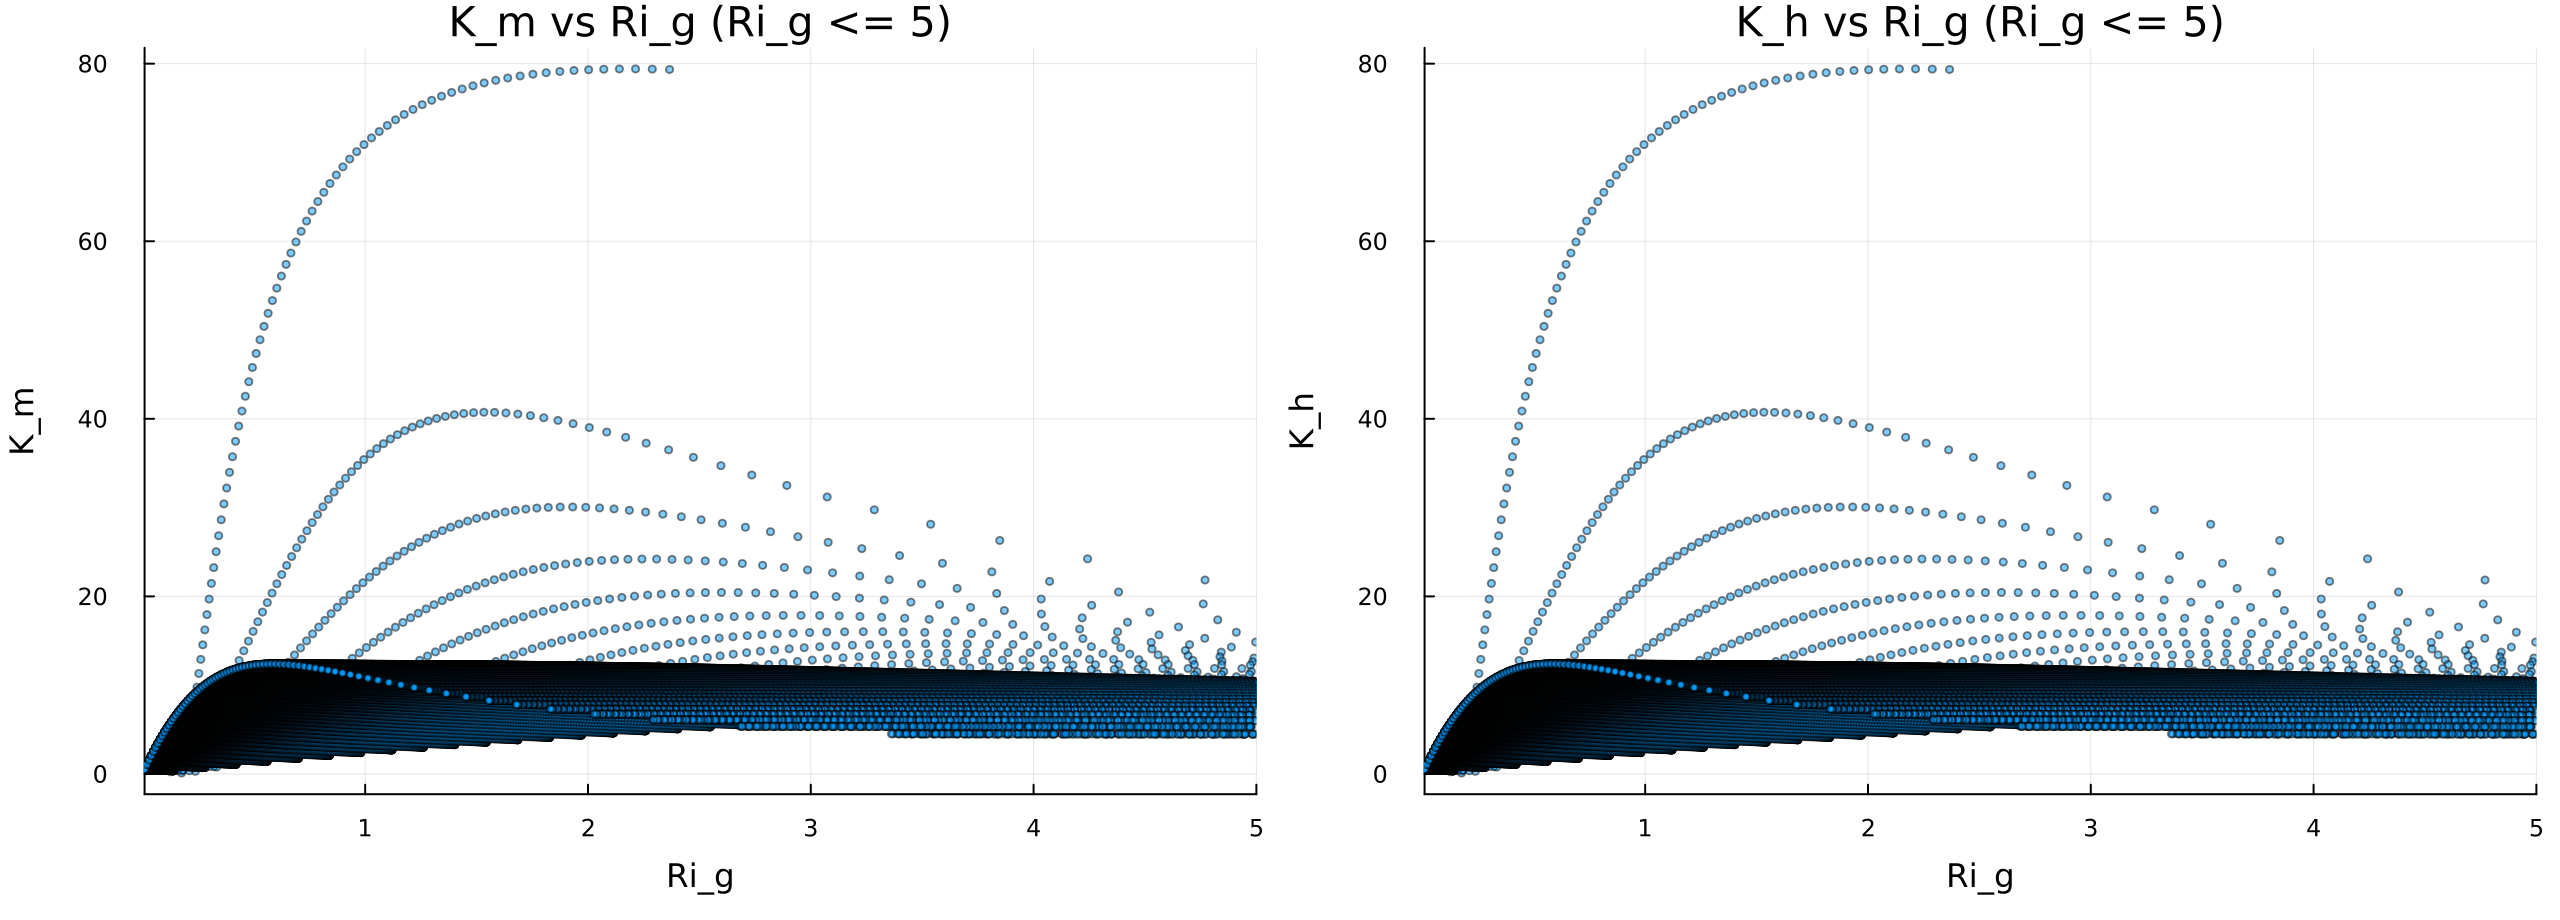
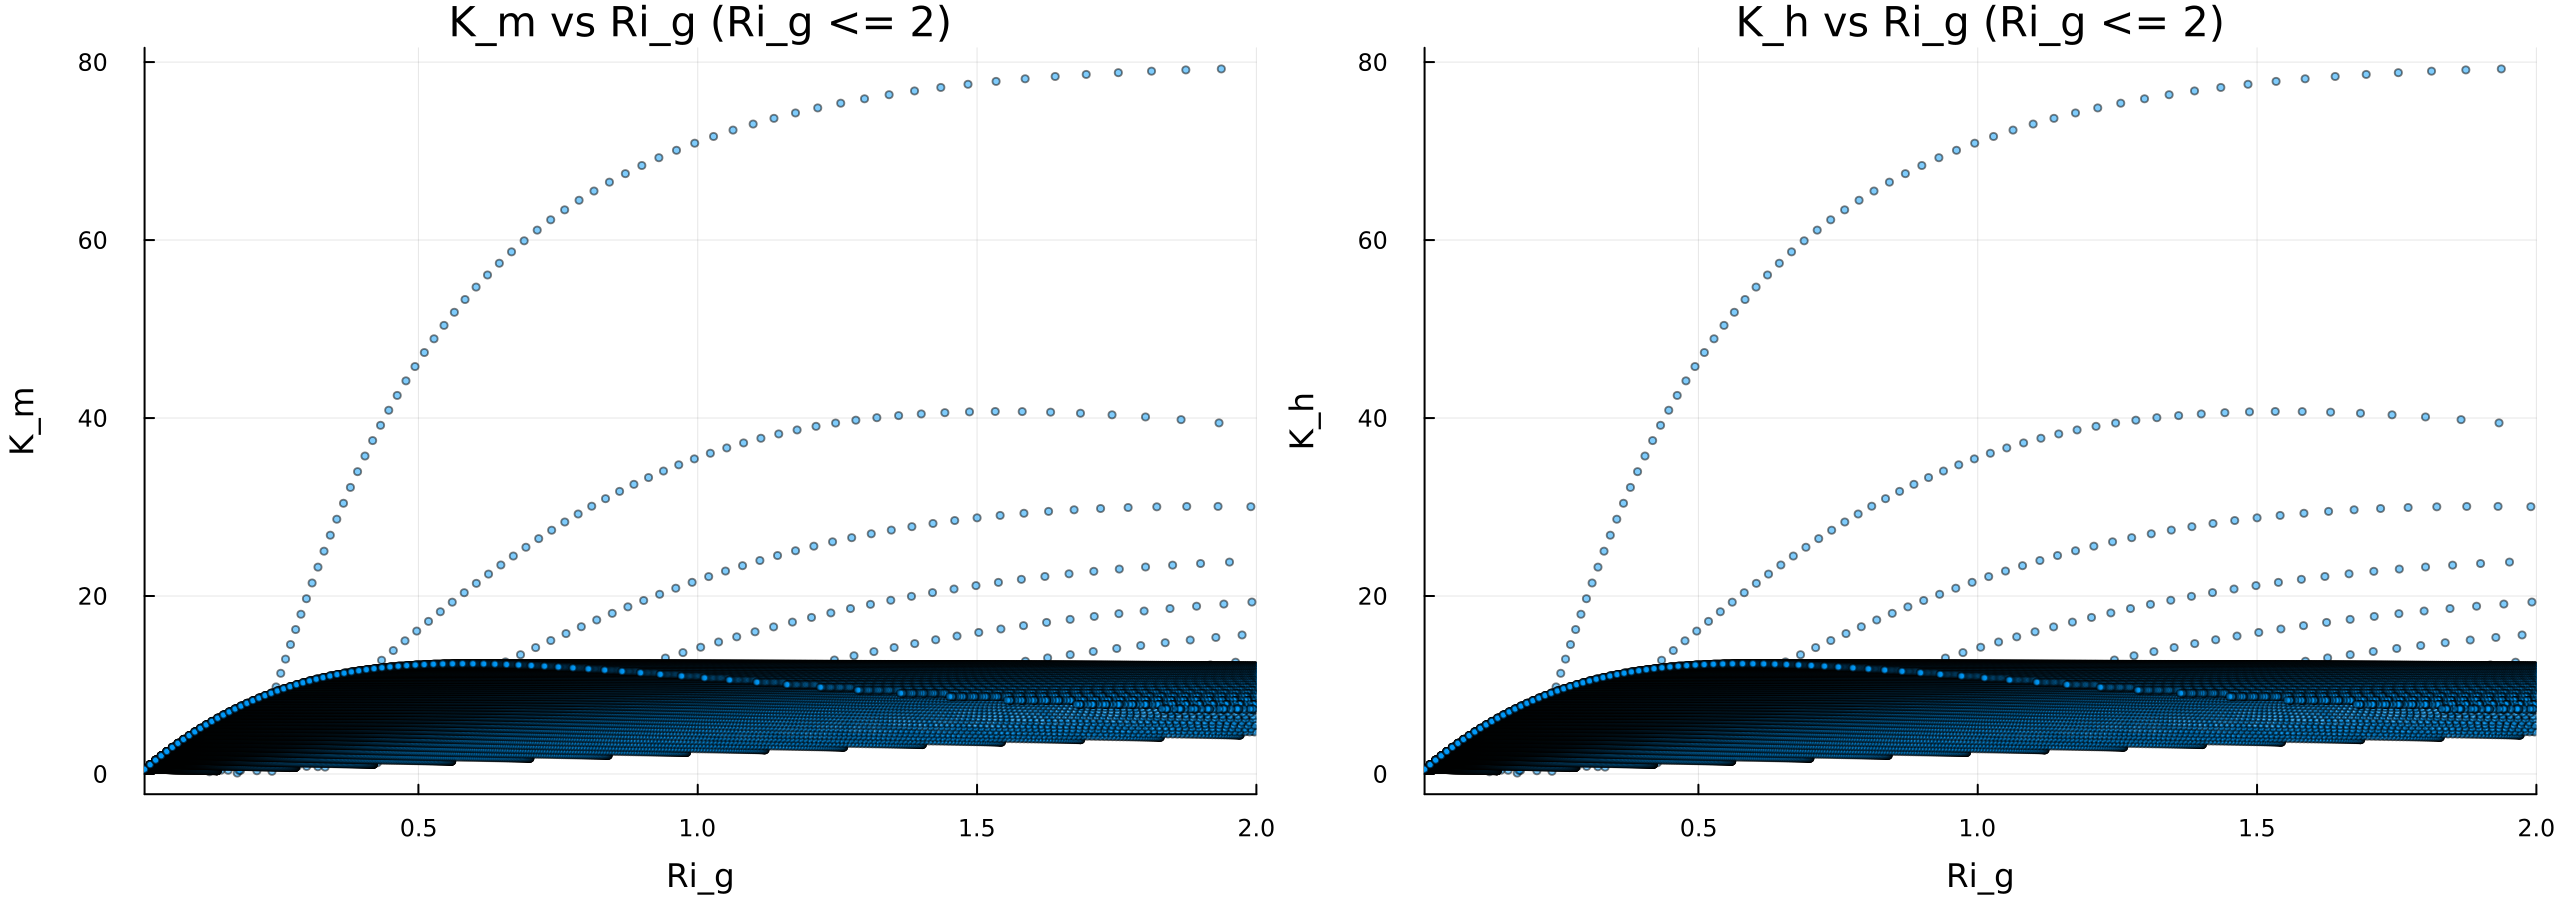
made clean yet again

diff --git a/results/gabls1/gabls1_80x2m_9h_report.tex b/results/gabls1/gabls1_80x2m_9h_report.tex
@@ -11,7 +11,7 @@ and returned \texttt{ Success }.
   \item Case identifier: \texttt{ gabls1 }
   \item Output directory: \texttt{ results/gabls1 }
   \item Number of saved time samples: 1081
-  \item Number of profile snapshots: 4
+  \item Number of profile snapshots: 19
   \item Solver accepted/rejected steps: 416 / 1
   \item RHS evaluations: 104426
   \item Solver tolerances: $\mathrm{abstol}=1.000 \times 10^{-8}$, $\mathrm{reltol}=1.000 \times 10^{-6}$

diff --git a/results/gabls1/scm_case_report.tex b/results/gabls1/scm_case_report.tex
@@ -11,7 +11,7 @@ and returned \texttt{ Success }.
   \item Case identifier: \texttt{ gabls1 }
   \item Output directory: \texttt{ results/gabls1 }
   \item Number of saved time samples: 1081
-  \item Number of profile snapshots: 4
+  \item Number of profile snapshots: 19
   \item Solver accepted/rejected steps: 416 / 1
   \item RHS evaluations: 104426
   \item Solver tolerances: $\mathrm{abstol}=1.000 \times 10^{-8}$, $\mathrm{reltol}=1.000 \times 10^{-6}$

diff --git a/notes/16Jul2026.md b/notes/16Jul2026.md
@@ -443,3 +443,76 @@ J = \begin{pmatrix}
 is defined continuously over the entire physical and non-physical state space. This eliminates the classic "step-rejection loop" phenomenon where non-differentiable boundaries trigger Newton iteration failures, allowing the adaptive time-stepper to confidently increase step sizes ($\Delta t \gg \varepsilon$) once the fast subsystem has relaxed to the slow manifold $\mathcal{M}_\varepsilon$.
 
 ```
+
+---
+
+That Makefile is beautiful—highly modular, fully ready for parallel execution, and perfectly set up to process the distinct physical regimes of **CASES99**, **FLOSS**, and **SHEBA**.
+
+These three datasets represent a classic progression in Stable Boundary Layer (SBL) meteorology, spanning from typical continental grassland to ultra-smooth Arctic sea ice. Because Geometric Singular Perturbation Theory (GSPT) relies on scale separation (fast/slow manifolds), the physical differences in surface roughness and radiative forcing between these sites will fundamentally shift your SBL phase space and bifurcation thresholds.
+
+---
+
+### Physical Landscape Comparison
+
+Here is how these three observational sites map physically and how they impact the GSPT framework's fast and slow variables:
+
+| Dataset | Terrain & Surface | Aerodynamic Roughness ($z_{0m}$) | Thermal Roughness ($z_{0h}$) | Dominant Physics / GSPT Impact |
+| --- | --- | --- | --- | --- |
+| **CASES99** | Flat Kansas grassland | $\approx 10^{-2} \text{ m}$ to $3 \times 10^{-2} \text{ m}$ | $\approx 10^{-3} \text{ m}$ | Standard reference. Strong diurnal cycles, moderate shear-driven turbulence, well-defined weakly to strongly stable transitions. |
+| **FLOSS** | Smooth snowpack (Rocky Flats, CO) | $\approx 10^{-3} \text{ m}$ | $\approx 10^{-4} \text{ m}$ | Low surface heat capacity of snow yields rapid radiative cooling. Reduced $z_{0m}$ narrows the range of shear-generated TKE, making the fast manifold highly sensitive to wind speed changes. |
+| **SHEBA** | Arctic pack ice / snow | $\approx 10^{-4} \text{ m}$ to $10^{-3} \text{ m}$ | $\approx 10^{-5} \text{ m}$ to $10^{-4} \text{ m}$ | Extreme high-latitude stable states. Very low surface drag suppresses turbulent mixing, resulting in an exceptionally thin SBL where Coriolis effects and "upside-down" SBL structures easily warp the slow manifold. |
+
+---
+
+### How Roughness Reshapes the GSPT Manifold
+
+In your GSPT formulation, surface drag directly drives the production of turbulent kinetic energy (TKE) via friction velocity ($u_*$).
+
+* **At CASES99 (Rougher):** The higher drag coefficient keeps the fast-TKE engine ($eq:fast\_tke$) active at lower wind speeds. The collapse of turbulence occurs only under very low winds or extreme cooling.
+* **At SHEBA (Smoother):** The extremely small $z_{0m}$ means $u_*$ is suppressed. The boundary layer struggles to generate shear-driven turbulence. Consequently, the **bifurcation boundary** (where the SBL collapses into a decoupled, laminar-like state) shifts toward much higher wind speeds.
+
+Running bifurcation sweeps (`sweep_bifurcation.jl`) across all three will likely show the "stable" equilibrium fold opening and closing at vastly different critical wind speeds.
+
+---
+
+### Executing the Multi-Dataset Pipelines
+
+Because you optimized the Makefile for parallel execution, you can process all three sites concurrently on your machine.
+
+#### Step 1: Bootstrap and Run All Pipelines in Parallel
+
+Since your targets are parallelization-friendly, use the `-j` flag to run the initial processing pipelines concurrently:
+
+```bash
+# Bootstrap Julia environment first
+make bootstrap
+
+# Run CASESS99, FLOSS, and SHEBA pipelines in parallel (e.g., up to 3 threads)
+make pipeline-all -j3
+
+```
+
+#### Step 2: Sweep Bifurcation curves and Run Solvers
+
+Once the raw observational inputs are processed, run the $4\text{D}$ solvers and GSPT stability sweeps:
+
+```bash
+# Run the 4D physical solvers
+make run-solver-all -j3
+
+# Sweep the GSPT bifurcation spaces to find where the stable state folds
+make bifurcation-all -j3
+
+```
+
+#### Step 3: Assemble the Final Comparative Manuscript
+
+By default, the LaTeX assembly target uses the `DATASET` variable. You can target individual datasets to see how the generated papers look, or build a comprehensive portfolio:
+
+```bash
+# Assemble and compile the paper targeting SHEBA's unique parameters
+make paper-all DATASET=SHEBA
+
+```
+
+---